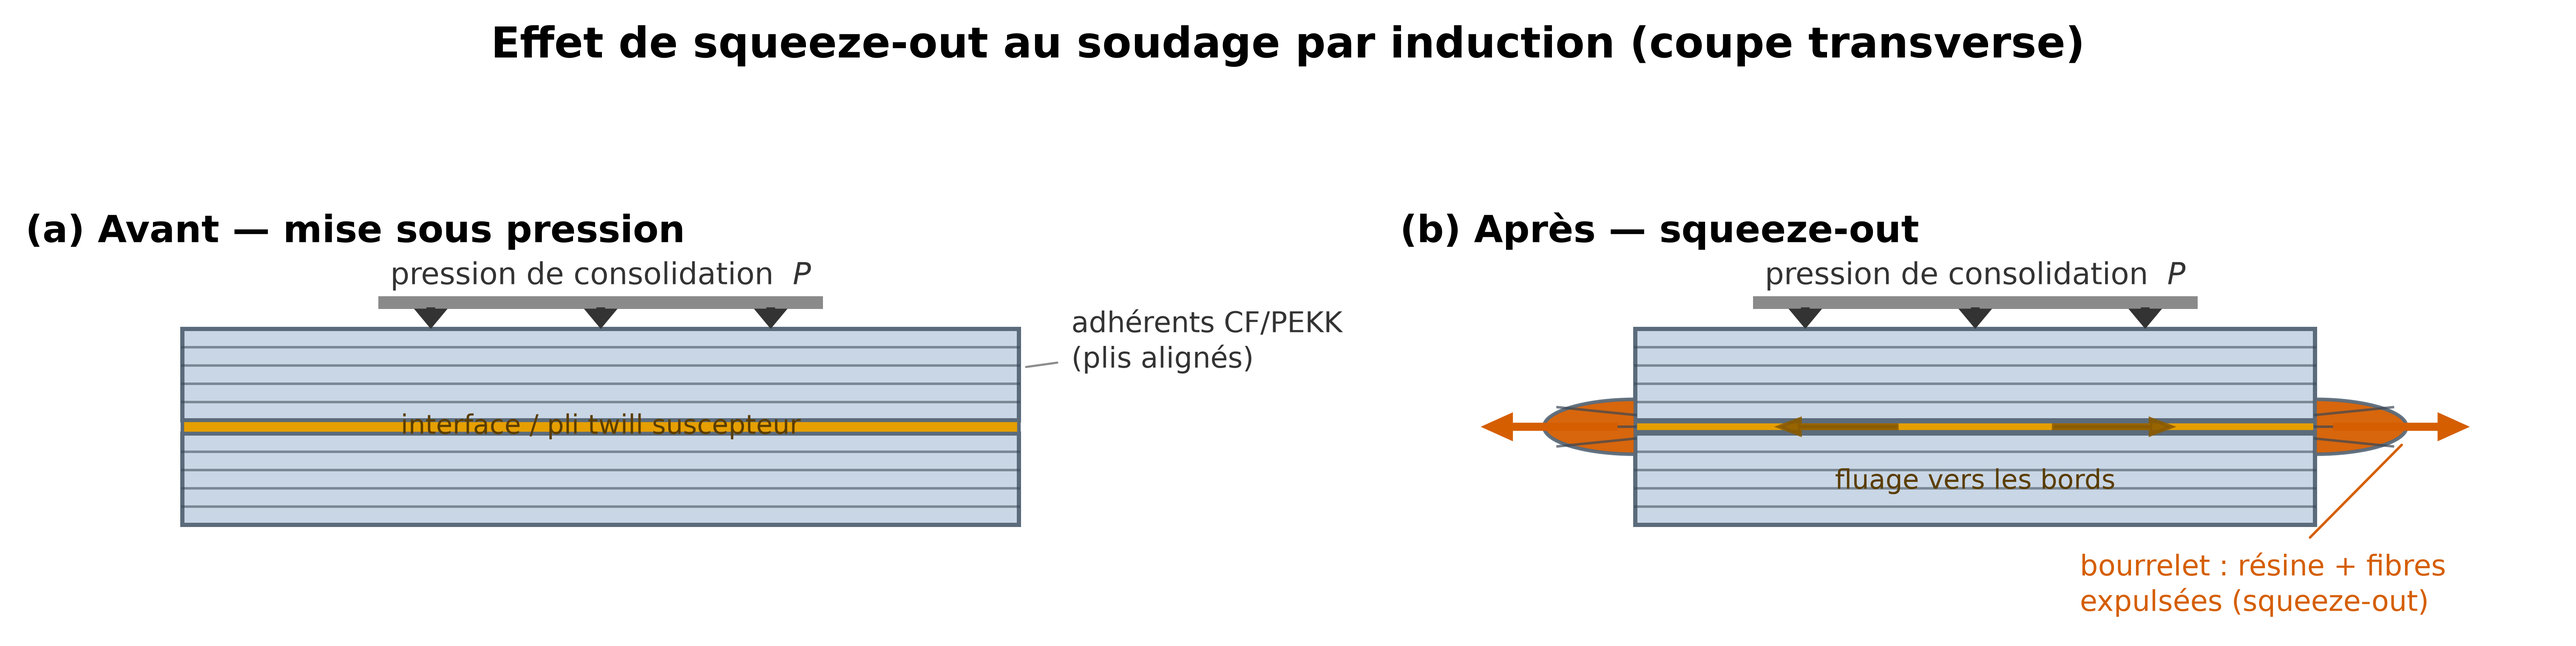
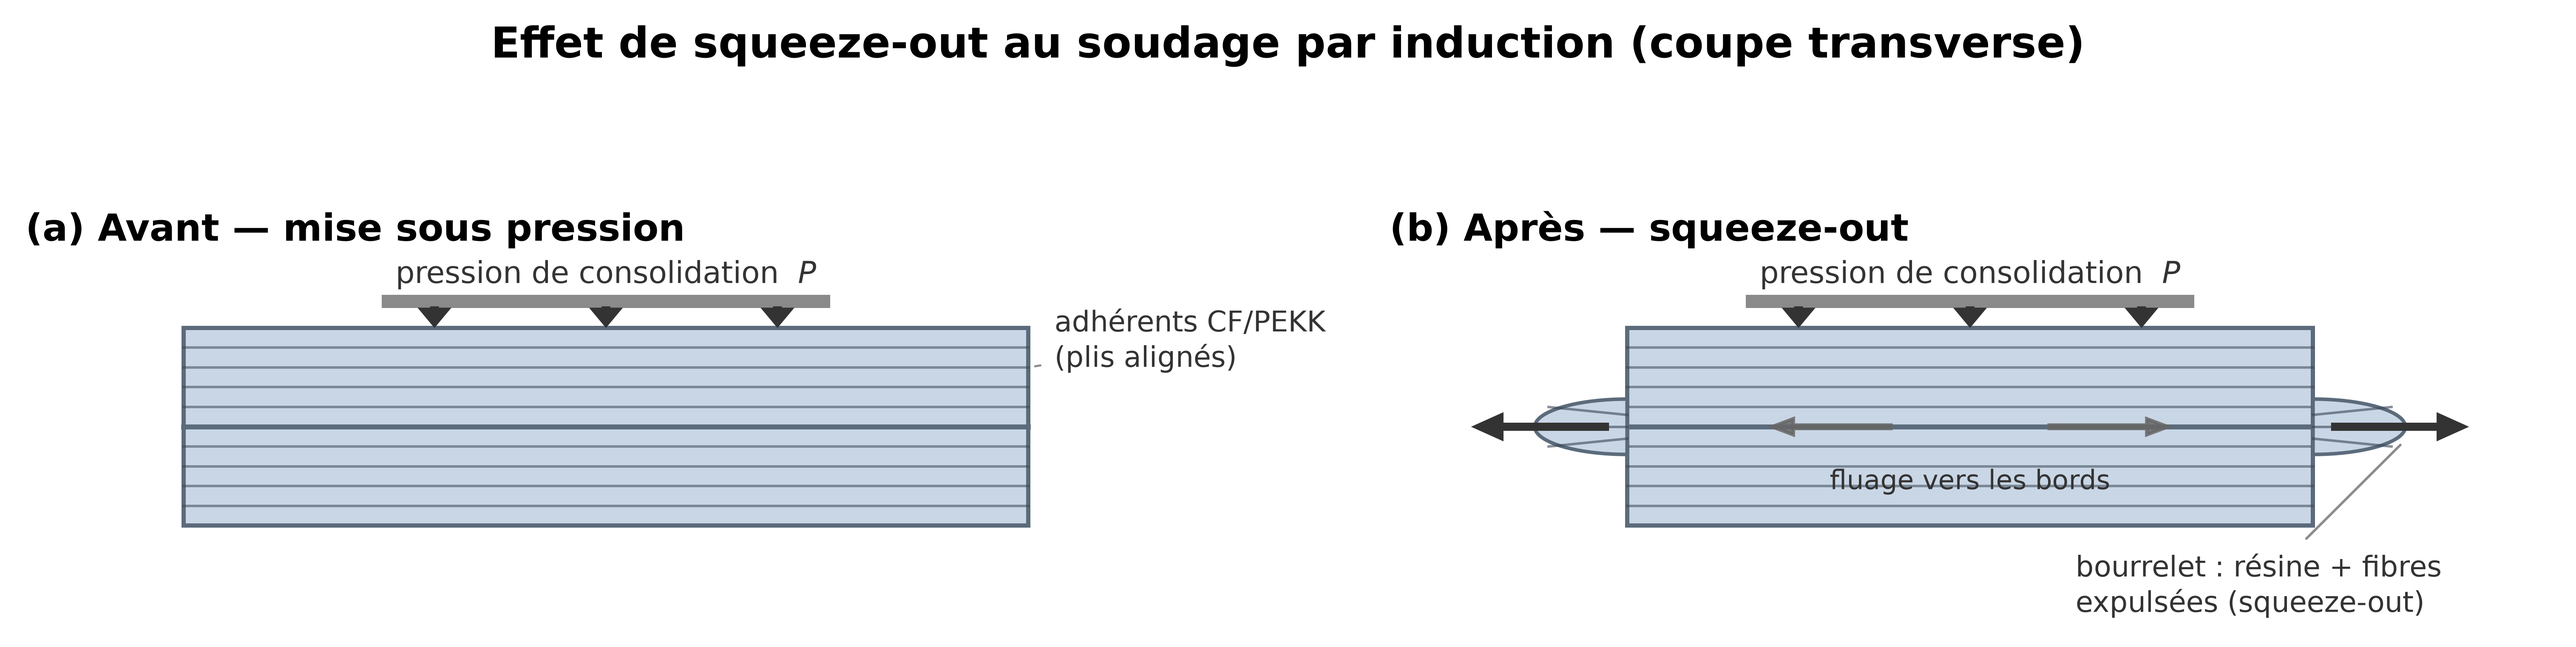
fig(squeeze-out): retire le pli suscepteur + bourrelet couleur laminé (coupe) ; ajoute la vue 3D
Coupe transverse : deux adhérents CF/PEKK, plan de soudure, bourrelet même matière/couleur.
Vue 3D : plaques empilées + pression + bourrelet (demi-cylindre) sur le pourtour libre.

diff --git a/code/scripts/gen/gen_schema_squeeze_out.py b/code/scripts/gen/gen_schema_squeeze_out.py
@@ -49,23 +49,21 @@ def pressure(ax, xc, ytop, n=3, span=26):
 
 
 def bead(ax, xedge, yc, sgn):
-    """Bourrelet (lentille) expulsé au bord ; sgn=-1 gauche, +1 droite."""
+    """Bourrelet (lentille) expulsé au bord ; sgn=-1 gauche, +1 droite.
+    Même matière que les plis -> même couleur que le laminé."""
     w, h = 7.0, 4.2
-    th = np.linspace(-np.pi / 2, np.pi / 2, 40) * sgn
-    xs = xedge + sgn * (w * np.cos(th) * 0 + 0)  # placeholder
-    # lentille : demi-ellipse qui déborde du bord
     t = np.linspace(0, np.pi, 40)
     ex = xedge + sgn * w * np.sin(t)
     ey = yc + h / 2 * np.cos(t)
     ax.fill(np.r_[xedge, ex, xedge], np.r_[yc + h / 2, ey, yc - h / 2],
-            facecolor=C_BEAD, edgecolor=C_LAM_E, lw=1.0, zorder=4, alpha=0.95)
-    # quelques fibres expulsées dans le bourrelet
+            facecolor=C_LAM, edgecolor=C_LAM_E, lw=1.0, zorder=4)
+    # quelques fibres expulsées dans le bourrelet (même couleur que les plis)
     for k in (-1, 0, 1):
         ax.plot([xedge, xedge + sgn * w * 0.85], [yc + k * 0.9, yc + k * 1.5],
-                color=C_FIB, lw=0.7, alpha=0.7, zorder=5)
-    # flèche d'expulsion
+                color=C_FIB, lw=0.7, alpha=0.6, zorder=5)
+    # flèche d'expulsion (neutre)
     ax.add_patch(FancyArrow(xedge + sgn * 1.5, yc, sgn * (w + 3), 0, width=0.35,
-                 head_width=1.8, head_length=2.0, color=C_BEAD, zorder=6,
+                 head_width=1.8, head_length=2.0, color=C_ARR, zorder=6,
                  length_includes_head=True))
 
 
@@ -77,45 +75,41 @@ for ax in (a, b):
     ax.set_aspect("equal")
     ax.axis("off")
 
-# géométrie verticale commune
-Y_SUP = (14.5, 21.5)      # adhérent supérieur (y0, y1)
-Y_INF = (6.5, 13.5)       # adhérent inférieur
-YC = 14.0                 # centre de l'interface
+# géométrie verticale commune : les deux adhérents se touchent à l'interface
+Y_SUP = (14.0, 21.5)      # adhérent supérieur (y0, y1)
+Y_INF = (6.5, 14.0)       # adhérent inférieur
+YC = 14.0                 # plan de soudure
 
-# --- (a) AVANT : plis alignés, interface solide, mise sous pression ---
+# --- (a) AVANT : plis alignés, mise sous pression ---
 X0, X1 = 18, 82
 laminate(a, X0, X1, *Y_SUP)
-a.add_patch(Rectangle((X0, 13.5), X1 - X0, 1.0, facecolor=C_HOT,
-            edgecolor=C_LAM_E, lw=1.0, zorder=3))     # interface = twill suscepteur
 laminate(a, X0, X1, *Y_INF)
+a.plot([X0, X1], [YC, YC], color=C_LAM_E, lw=1.4, zorder=4)     # plan de soudure
 pressure(a, (X0 + X1) / 2, Y_SUP[1])
-a.text((X0 + X1) / 2, YC, "interface / pli twill suscepteur", ha="center",
-       va="center", fontsize=7.5, color="#5a3d00", zorder=6)
-a.annotate("adhérents CF/PEKK\n(plis alignés)", xy=(X1, 18.5), xytext=(86, 20.5),
+a.annotate("adhérents CF/PEKK\n(plis alignés)", xy=(X1, 18.5), xytext=(84, 20.5),
            fontsize=8, color=C_ARR, ha="left", va="center",
            arrowprops=dict(arrowstyle="-", color="0.55", lw=0.6))
 a.set_title("(a) Avant — mise sous pression", loc="left", fontsize=10.5,
             fontweight="bold")
 
-# --- (b) APRÈS : interface fondue, fluage, squeeze-out aux bords ---
+# --- (b) APRÈS : fluage, squeeze-out aux bords ---
 X0b, X1b = 24, 76                          # empreinte plus étroite (matière expulsée)
 laminate(b, X0b, X1b, *Y_SUP)
-b.add_patch(Rectangle((X0b, 13.6), X1b - X0b, 0.8, facecolor=C_HOT,
-            edgecolor=C_LAM_E, lw=1.0, zorder=3))     # interface fondue, amincie
 laminate(b, X0b, X1b, *Y_INF)
+b.plot([X0b, X1b], [YC, YC], color=C_LAM_E, lw=1.4, zorder=4)   # plan de soudure
 pressure(b, (X0b + X1b) / 2, Y_SUP[1])
 bead(b, X0b, YC, -1)
 bead(b, X1b, YC, +1)
 for sgn in (-1, 1):
     b.add_patch(FancyArrow((X0b + X1b) / 2 + sgn * 6, YC, sgn * 9, 0, width=0.25,
-                head_width=1.2, head_length=1.6, color="#8a5a00", zorder=6,
+                head_width=1.2, head_length=1.6, color="0.4", zorder=6,
                 length_includes_head=True, alpha=0.85))
 b.text((X0b + X1b) / 2, 9.8, "fluage vers les bords", ha="center", va="center",
-       fontsize=7.5, color="#5a3d00", zorder=6)
+       fontsize=7.5, color=C_ARR, zorder=6)
 b.annotate("bourrelet : résine + fibres\nexpulsées (squeeze-out)",
-           xy=(X1b + 7, YC - 1), xytext=(58, 4.6), fontsize=8, color=C_BEAD,
+           xy=(X1b + 7, YC - 1), xytext=(58, 4.6), fontsize=8, color=C_ARR,
            ha="left", va="top",
-           arrowprops=dict(arrowstyle="-", color=C_BEAD, lw=0.7))
+           arrowprops=dict(arrowstyle="-", color="0.55", lw=0.7))
 b.set_title("(b) Après — squeeze-out", loc="left", fontsize=10.5,
             fontweight="bold")
 

diff --git a/code/scripts/gen/gen_schema_squeeze_out_3d.py b/code/scripts/gen/gen_schema_squeeze_out_3d.py
@@ -1,0 +1,98 @@
+#!/usr/bin/env python3
+"""Vue 3D schématique de l'effet de squeeze-out au soudage par induction.
+
+Deux adhérents composites CF/PEKK empilés ; sous la pression de consolidation,
+la matière flue à l'interface et forme un bourrelet (résine + fibres) sur le
+pourtour libre du joint. Schéma sans données. Sortie : biblio/labo/figures/.
+"""
+from __future__ import annotations
+import sys
+from pathlib import Path
+
+import numpy as np
+import matplotlib.pyplot as plt
+from mpl_toolkits.mplot3d.art3d import Poly3DCollection
+
+R = next(p for p in Path(__file__).resolve().parents if (p / ".git").exists())
+sys.path.insert(0, str(R / "code" / "scripts"))
+from _style import apply_style, savefig  # noqa: E402
+apply_style()
+
+C_LAM = "#C9D6E5"      # laminé
+C_LAM_E = "#5B6B7B"    # arêtes
+C_TOP = "#B7C6D8"      # face supérieure (un peu plus foncée)
+C_ARR = "#333333"
+
+LX, LY = 10.0, 6.0     # longueur, largeur
+ZB = (0.0, 1.5)        # adhérent inférieur (z0,z1)
+ZT = (1.5, 3.0)        # adhérent supérieur
+ZI = 1.5               # plan de soudure
+
+
+def box(ax, x0, x1, y0, y1, z0, z1, top=False):
+    v = np.array([[x0, y0, z0], [x1, y0, z0], [x1, y1, z0], [x0, y1, z0],
+                  [x0, y0, z1], [x1, y0, z1], [x1, y1, z1], [x0, y1, z1]])
+    faces = [[0, 1, 2, 3], [4, 5, 6, 7], [0, 1, 5, 4],
+             [2, 3, 7, 6], [1, 2, 6, 5], [0, 3, 7, 4]]
+    polys = [[v[i] for i in f] for f in faces]
+    pc = Poly3DCollection(polys, facecolor=C_LAM, edgecolor=C_LAM_E, lw=1.0, alpha=1.0)
+    ax.add_collection3d(pc)
+    if top:  # recouvre la face du dessus d'un ton légèrement distinct
+        topface = Poly3DCollection([[v[i] for i in [4, 5, 6, 7]]],
+                                   facecolor=C_TOP, edgecolor=C_LAM_E, lw=1.0)
+        ax.add_collection3d(topface)
+
+
+def bead_ridge(ax, x0, x1, y_edge, zc, sgn_y, r=0.75, n=26):
+    """Bourrelet = demi-cylindre le long d'une arête libre du joint.
+    sgn_y=-1 : déborde vers -y (arête avant)."""
+    u = np.linspace(x0, x1, n)
+    th = np.linspace(0, np.pi, n)
+    U, T = np.meshgrid(u, th)
+    X = U
+    Y = y_edge + sgn_y * r * np.sin(T)
+    Z = zc + r * np.cos(T)
+    ax.plot_surface(X, Y, Z, color=C_LAM, edgecolor=C_LAM_E, lw=0.15,
+                    alpha=1.0, antialiased=True, shade=False)
+
+
+fig = plt.figure(figsize=(7.2, 5.2))
+ax = fig.add_subplot(111, projection="3d")
+
+box(ax, 0, LX, 0, LY, *ZB)              # adhérent inférieur
+box(ax, 0, LX, 0, LY, *ZT, top=True)    # adhérent supérieur
+
+# bourrelets sur les arêtes libres avant (y=0) et droite (x=LX)
+bead_ridge(ax, 0.4, LX - 0.4, 0.0, ZI, sgn_y=-1)          # arête avant
+# arête droite : demi-cylindre le long de y à x=LX
+th = np.linspace(0, np.pi, 26); u = np.linspace(0.4, LY - 0.4, 26)
+U, T = np.meshgrid(u, th)
+ax.plot_surface(LX + 0.75 * np.sin(T), U, ZI + 0.75 * np.cos(T),
+                color=C_LAM, edgecolor=C_LAM_E, lw=0.15, alpha=1.0, shade=False)
+
+# plan de soudure (fin liseré sur la face avant)
+ax.plot([0, LX], [0, 0], [ZI, ZI], color=C_LAM_E, lw=1.4, zorder=5)
+
+# pression de consolidation : flèches vers le bas au-dessus du dessus
+for xf in (2.5, 5.0, 7.5):
+    for yf in (1.5, 4.5):
+        ax.quiver(xf, yf, ZT[1] + 1.6, 0, 0, -1.3, color=C_ARR, lw=1.6,
+                  arrow_length_ratio=0.45)
+ax.text(LX / 2, LY / 2, ZT[1] + 2.1, "pression de consolidation $P$",
+        ha="center", va="bottom", fontsize=9, color=C_ARR)
+
+# annotations
+ax.text(LX / 2, -2.7, 0.0, "bourrelet (squeeze-out) : résine + fibres expulsées",
+        ha="center", va="top", fontsize=8.5, color=C_ARR)
+ax.text(-0.5, LY, ZT[1], "adhérents CF/PEKK", ha="right", va="bottom",
+        fontsize=8.5, color=C_ARR)
+
+ax.set_box_aspect((LX, LY + 3, ZT[1] + 3))
+ax.set_xlim(0, LX); ax.set_ylim(-2.5, LY); ax.set_zlim(0, ZT[1] + 2.4)
+ax.view_init(elev=18, azim=-62)
+ax.set_axis_off()
+fig.suptitle("Effet de squeeze-out au soudage par induction (vue 3D)",
+             fontsize=12, fontweight="bold", y=0.94)
+fig.tight_layout()
+savefig(fig, R / "biblio" / "labo" / "figures" / "fig_squeeze_out_3d")
+print("figure -> biblio/labo/figures/fig_squeeze_out_3d.png")
